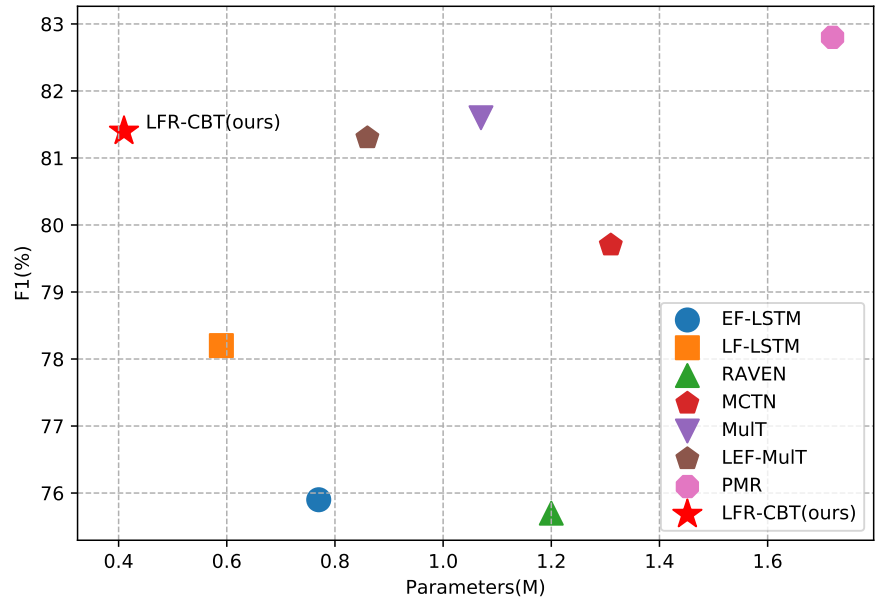
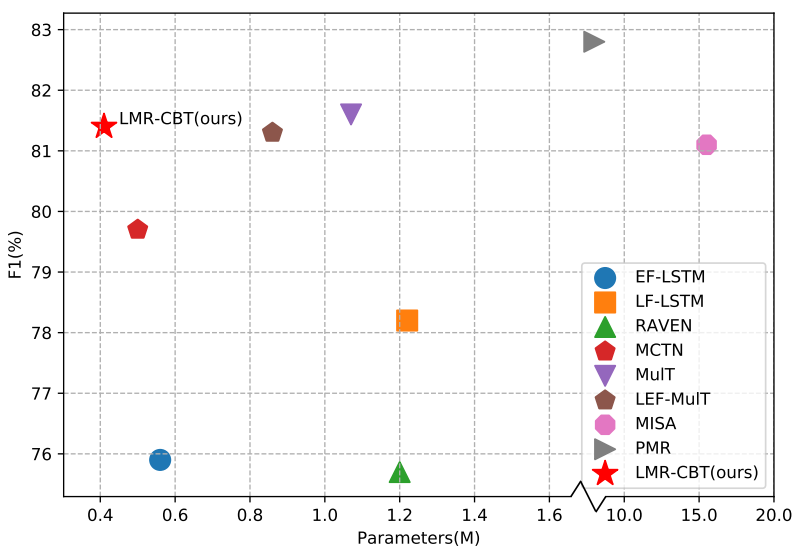
update

diff --git a/main.py b/main.py
@@ -6,11 +6,11 @@ from src import train
 import warnings
 warnings.filterwarnings("ignore")
 
-parser = argparse.ArgumentParser(description='MOSEI Sentiment Analysis')
+parser = argparse.ArgumentParser(description='Multimodal Emotion Recognition')
 parser.add_argument('-f', default='', type=str)
 
 # Fixed
-parser.add_argument('--model', type=str, default='MulT',
+parser.add_argument('--model', type=str, default='LMRCBT',
                     help='name of the model to use (Transformer, etc.)')
 
 # Tasks
@@ -28,7 +28,7 @@ parser.add_argument('--data_path', type=str, default='data',
                     help='path for storing the dataset')
 
 # Dropouts
-parser.add_argument('--attn_dropout', type=float, default=0.2,
+parser.add_argument('--attn_dropout', type=float, default=0.1,
                     help='attention dropout')
 parser.add_argument('--relu_dropout', type=float, default=0.1,
                     help='relu dropout')
@@ -48,7 +48,7 @@ parser.add_argument('--attn_mask', action='store_false',
                     help='use attention mask for Transformer (default: true)')
 
 # Tuning
-parser.add_argument('--batch_size', type=int, default=24, metavar='N',
+parser.add_argument('--batch_size', type=int, default=16, metavar='N',
                     help='batch size (default: 24)')
 parser.add_argument('--clip', type=float, default=1.0,
                     help='gradient clip value (default: 0.8)')
@@ -56,7 +56,7 @@ parser.add_argument('--lr', type=float, default=1e-3,
                     help='initial learning rate (default: 1e-3)')
 parser.add_argument('--optim', type=str, default='Adam',
                     help='optimizer to use (default: Adam)')
-parser.add_argument('--num_epochs', type=int, default=100,
+parser.add_argument('--num_epochs', type=int, default=120,
                     help='number of epochs (default: 40)')
 parser.add_argument('--when', type=int, default=20,
                     help='when to decay learning rate (default: 20)')
@@ -70,8 +70,8 @@ parser.add_argument('--seed', type=int, default=1337,
                     help='random seed')
 parser.add_argument('--no_cuda', action='store_true',
                     help='do not use cuda')
-parser.add_argument('--name', type=str, default='mult',
-                    help='name of the trial (default: "mult")')
+parser.add_argument('--name', type=str, default='LMRCBT',
+                    help='name of the trial (default: "LMRCBT")')
 args = parser.parse_args()
 
 torch.manual_seed(args.seed)

diff --git a/src/train.py b/src/train.py
@@ -17,7 +17,7 @@ from sklearn.metrics import precision_recall_fscore_support
 from sklearn.metrics import accuracy_score, f1_score
 from src.eval_metrics import *
 import torch_utils as tu 
-device = torch.device('cuda:3')
+device = torch.device('cuda:4')
 
 ####################################################################
 #
@@ -43,7 +43,7 @@ def initiate(hyp_params, train_loader, valid_loader, test_loader):
     criterion = getattr(nn, hyp_params.criterion)() # 调参的重点对象
     # criterion = tu.LabelSmoothingCrossEntropy()
     # criterion_test = nn.CrossEntropyLoss()
-    if hyp_params.aligned or hyp_params.model=='MULT':
+    if hyp_params.aligned or hyp_params.model=='LMRCBT':
         ctc_criterion = None
         ctc_a2l_module, ctc_v2l_module = None, None
         ctc_a2l_optimizer, ctc_v2l_optimizer = None, None

diff --git a/src/models.py b/src/models.py
@@ -1,4 +1,3 @@
-from typing_extensions import final
 import torch
 from torch import nn
 import torch.nn.functional as F
@@ -34,12 +33,12 @@ class CrossModalAttentionLayer(nn.Module):
 
         return torch.cat(all_spatial_attn_weights_softmax, dim=0)
 
-class MULTModel(nn.Module):
+class LMRCBTModel(nn.Module):
     def __init__(self, hyp_params):
         """
-        Construct a MulT model.
+        Construct a LMRCBT model.
         """
-        super(MULTModel, self).__init__()
+        super(LMRCBTModel, self).__init__()
         self.orig_d_l, self.orig_d_a, self.orig_d_v = hyp_params.orig_d_l, hyp_params.orig_d_a, hyp_params.orig_d_v
         self.d_l, self.d_a, self.d_v = 40, 40, 40
         self.vonly = hyp_params.vonly

diff --git a/README.md b/README.md
@@ -1,14 +1,14 @@
-# LFR-CBT: Learning Fusion-modality Representations with CB-Transformer for Human Multimodal Emotion Recognition from Unaligned Multimodal Sequences
+# LMR-CBT: Learning Modality-fused Representations with CB-Transformer for Multimodal Emotion Recognition from Unaligned Multimodal Sequences
 
-> Pytorch implementation for Learning Fusion-modality Representations with CB-Transformer for Human Multimodal Emotion Recognition from Unaligned Multimodal Sequences.
+> Pytorch implementation for Learning Modality-fused Representations with CB-Transformer for Multimodal Emotion Recognition from Unaligned Multimodal Sequences.
 
 ## Overview
 
 ### Overall Architecture
 
-In this paper, we propose a network to learn fusion-modality representations with CB-Transformer (LFR-CBT) for human multimodal emotion recognition from unaligned multimodal sequences. Specifically, we first perform feature extraction for the three modalities respectively to obtain the local structure of the sequences. We design a novel transformer with cross-modal blocks (CB-Transformer) that enables complementary learning of different modalities, mainly divided into local temporal learning, cross-modal feature fusion and global self-attention representations. Then, we splice the modality-fused features with the original features to classify the emotions of the sequences. Finally, we conduct word-aligned and unaligned experiments on three mainstream multimodal emotion recognition datasets, IEMOCAP, CMU-MOSI, and CMU-MOSEI. The experimental results show the superiority and efficiency of our proposed method in both settings. Moreover, compared with the existing state-of-the-art methods, our model achieves the minimum number of parameters.
+In this paper, we propose a neural network to learn modality-fused representations with CB-Transformer (LMR-CBT) for multimodal emotion recognition from unaligned multimodal sequences. Specifically, we first perform feature extraction for the three modalities respectively to obtain the local structure of the sequences. Then, we design a novel transformer with cross-modal blocks (CB-Transformer) that enables complementary learning of different modalities, mainly divided into local temporal learning, cross-modal feature fusion and global self-attention representations. In addition, we splice the fused features with the original features to classify the emotions of the sequences. Finally, we conduct word-aligned and unaligned experiments on three challenging datasets, IEMOCAP, CMU-MOSI, and CMU-MOSEI. The experimental results show the superiority and efficiency of our proposed method in both settings. Compared with the mainstream methods, our approach reaches the state-of-the-art with a minimum number of parameters.
 
-<img src="./assets/framework.png" alt="image-20210829114602811" style="zoom:80%;" />
+<img src="./assets/framework.png" alt="image-20210829114602811" style="zoom: 67%;" />
 
 ### Datasets
 
@@ -52,10 +52,8 @@ export WARP_CTC_PATH=/home/xxx/warp-ctc/build
 
 ### Result
 
-<img src="./assets/result.png" alt="image-20210829114952315" style="zoom: 50%;" />
+<img src="./assets/result.png" alt="image-20210831110351086" style="zoom: 50%;" />
 
 ## Reference
 
 + Note that some codes references [MulT](https://github.com/yaohungt/Multimodal-Transformer)
-
-
